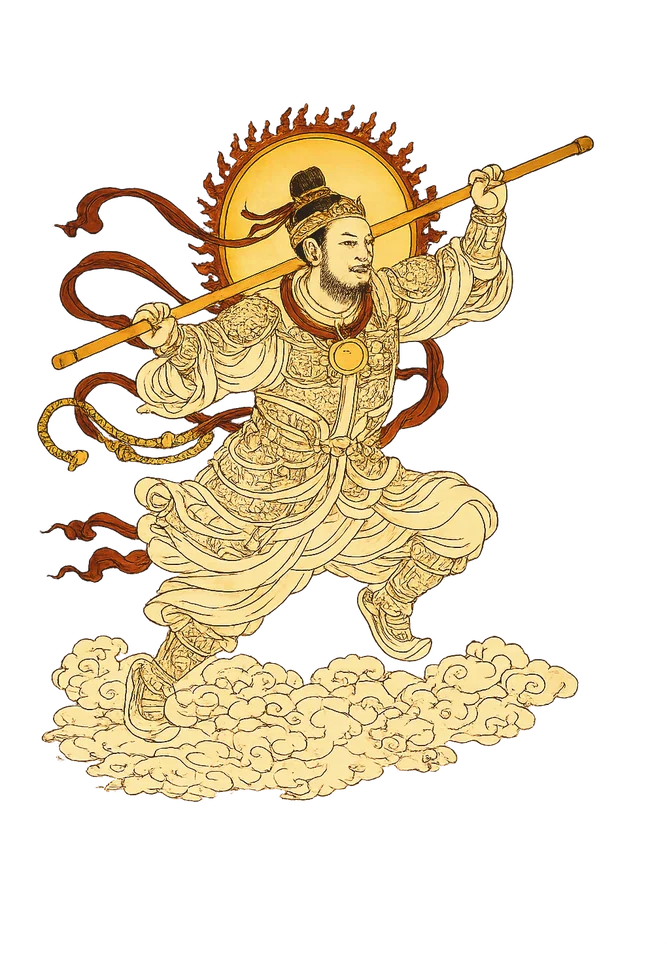
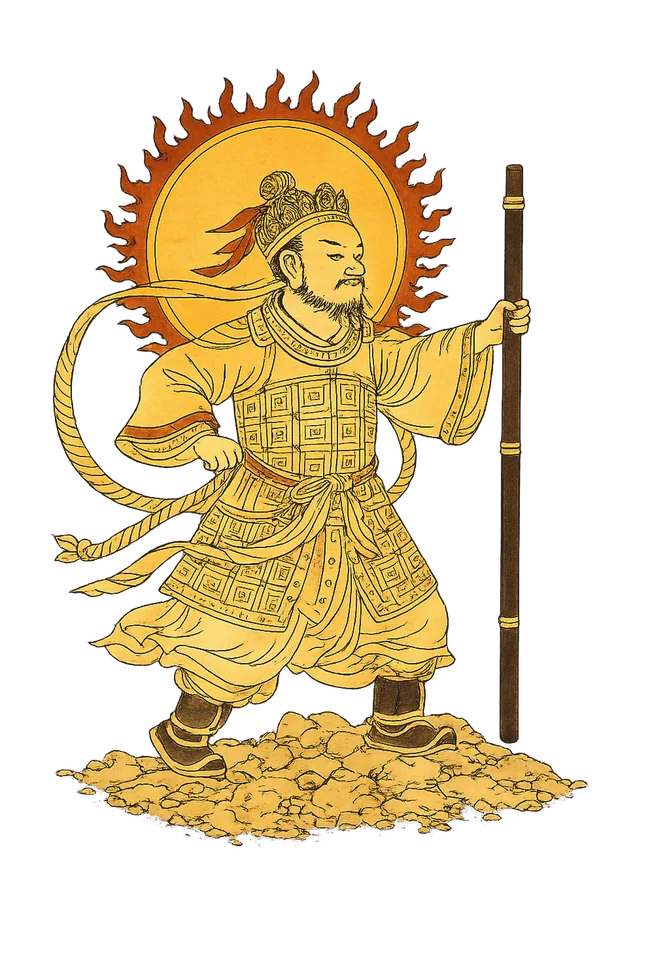
Muye: Tu Xingsun's true form redrawn as the Star of the Earth Palace

diff --git a/world/src/muye2/art/puppets/imagegen/figures.js b/world/src/muye2/art/puppets/imagegen/figures.js
@@ -70,7 +70,7 @@ export const KEY_FIGURES = {
   'zhou:huangfeihu-true': { travel: true, file: 'huangfeihu-t2', height: 143, side: 'zhou', shadow: [40, 8, 0.35], attack: { up: [-30, 20], hit: [20, 10], fol: [12, 6] } },
   'zhou:leizhenzi-true': { travel: true, file: 'leizhenzi-t2', height: 124, side: 'zhou', foot: true, hover: 19, shadow: [22, 5, 0.25], attack: { up: [-50, 20], hit: [30, 40], fol: [18, 28] } },
   'zhou:dengchanyu-true': { travel: true, file: 'dengchanyu-t2', height: 143, side: 'zhou', shadow: [40, 8, 0.35], attack: { up: [-60, -10], hit: [22, 10], fol: [12, 6] } },
-  'zhou:tuxingsun-true': { travel: true, file: 'tuxingsun-t2', height: 124, side: 'zhou', foot: true, shadow: [26, 6, 0.35], attack: { up: [-30, -10], hit: [24, 12], fol: [14, 8] } },
+  'zhou:tuxingsun-true': { travel: true, file: 'tuxingsun-t2', height: 125, side: 'zhou', foot: true, shadow: [46, 8, 0.35], gain: { torso: 0.4, thighN: 0.4, thighF: 0.4 }, roll: { crest: [3, 0], surge: [2, 0.5] }, limits: { head: [-3, 3], arm: [0, 0] }, attack: { up: [0, 0], hit: [0, 0], fol: [0, 0] } },
   'zhou:zhenglun-true': { travel: true, file: 'zhenglun-t2', height: 143, side: 'zhou', shadow: [40, 8, 0.35], attack: { up: [-60, 10], hit: [32, 40], fol: [20, 28] } },
   'zhou:jiangziya-true': { travel: true, file: 'jiangziya-t2', height: 143, side: 'zhou', shadow: [40, 8, 0.35], attack: { up: [-50, -20], hit: [14, 22], fol: [8, 12] } },
   'zhou:huangtianhua-true': { travel: true, drop: ['nail'], file: 'huangtianhua-t2', height: 143, side: 'zhou', shadow: [40, 8, 0.35], attack: { up: [-70, 10], hit: [36, 45], fol: [22, 32] } },
@@ -411,6 +411,13 @@ function unitPose(fig, u, now, x, y, o = {}) {
     const L = F.maxTurn, cl = (o2, root) => { for (const k in o2) if (k[0] !== '$' && typeof o2[k] === 'number' && !FREE.test(k) && k !== root) { const l = k === 'cloak' ? L / 2 : L; o2[k] = Math.max(-l, Math.min(l, o2[k])); } };   // the ribbons are the biggest cut: half the turn
     const rr = foot ? 'torso' : null; if (P.rider === R) { const c = { ...R }; cl(c, rr); Object.assign(R, c); } else cl(R, rr); if (P.mount) { P.mount = { ...P.mount }; cl(P.mount, 'body'); }
     for (const k of F.fixed || []) R[k] = 0; }   // parts whose cut opens at any turn
+  // limits: [min, max] degrees for single parts of one figure (土行孙's true form: the staff only ever tips forward, away from his
+  // head; the head and arm only as far as his cut has paint under them), the legs left free to stride
+  // gain: a key's motion scaled for one figure (土行孙 riding his earth-wave: his legs pump on it rather than stride, his body
+  // rocks less); roll: { part: [degrees, phase] } a rolling sway added in step with the walk (slowly when he stands)
+  if (F.gain) for (const k in F.gain) if (typeof R[k] === 'number') R[k] *= F.gain[k];
+  if (F.roll) { const w = still ? now * 0.7 : phase * 2; for (const k in F.roll) R[k] = (R[k] || 0) + F.roll[k][0] * Math.sin((w + F.roll[k][1]) * Math.PI * 2); }
+  if (F.limits) for (const k in F.limits) if (typeof R[k] === 'number') R[k] = Math.max(F.limits[k][0], Math.min(F.limits[k][1], R[k]));
   { // squash and stretch: the wind-up settles and widens him, the blow stretches him out
     const an = st === 'windup' ? Math.min(1, t / 0.4) : 0, sx = st === 'attack' && t < 0.25 ? 1 - t / 0.25 : 0;
     if ((an || sx) && !R.$sq) R.$sq = { torso: [1 + 0.05 * an - 0.04 * sx, 1 - 0.08 * an + 0.07 * sx] }; }

diff --git a/world/src/muye2/art/puppets/imagegen/faxiang.js b/world/src/muye2/art/puppets/imagegen/faxiang.js
@@ -15,7 +15,7 @@ await Promise.all(IDS.map(async (id) => {
   try { await im.decode(); IMG[id] = im; } catch { /* a missing picture leaves that god without a great image */ }
 }));
 // head: the centre of each god's aureole in the picture's pixels (measured from the baked pictures), for the held beat
-const HEAD = {nezha: [352, 211], yangjian: [444, 143], leizhenzi: [327, 210], tuxingsun: [313, 180], dengchanyu: [395, 100], huangfeihu: [590, 142], jiangziya: [527, 132], zhenglun: [575, 150], longji: [568, 143], huangtianhua: [506, 135]};
+const HEAD = {nezha: [352, 211], yangjian: [444, 143], leizhenzi: [327, 210], tuxingsun: [277, 257], dengchanyu: [395, 100], huangfeihu: [590, 142], jiangziya: [527, 132], zhenglun: [575, 150], longji: [568, 143], huangtianhua: [506, 135]};
 export const FAXIANG = Object.fromEntries(Object.entries(IMG).map(([id, im]) => { const w = Math.round((im.width * H) / im.height), k = w / im.width; return [id, { w, h: H, pivot: [Math.round(w / 2), H], head: HEAD[id] && [Math.round(HEAD[id][0] * k), Math.round(HEAD[id][1] * k)] }]; }));
 
 /** k: scale. */
